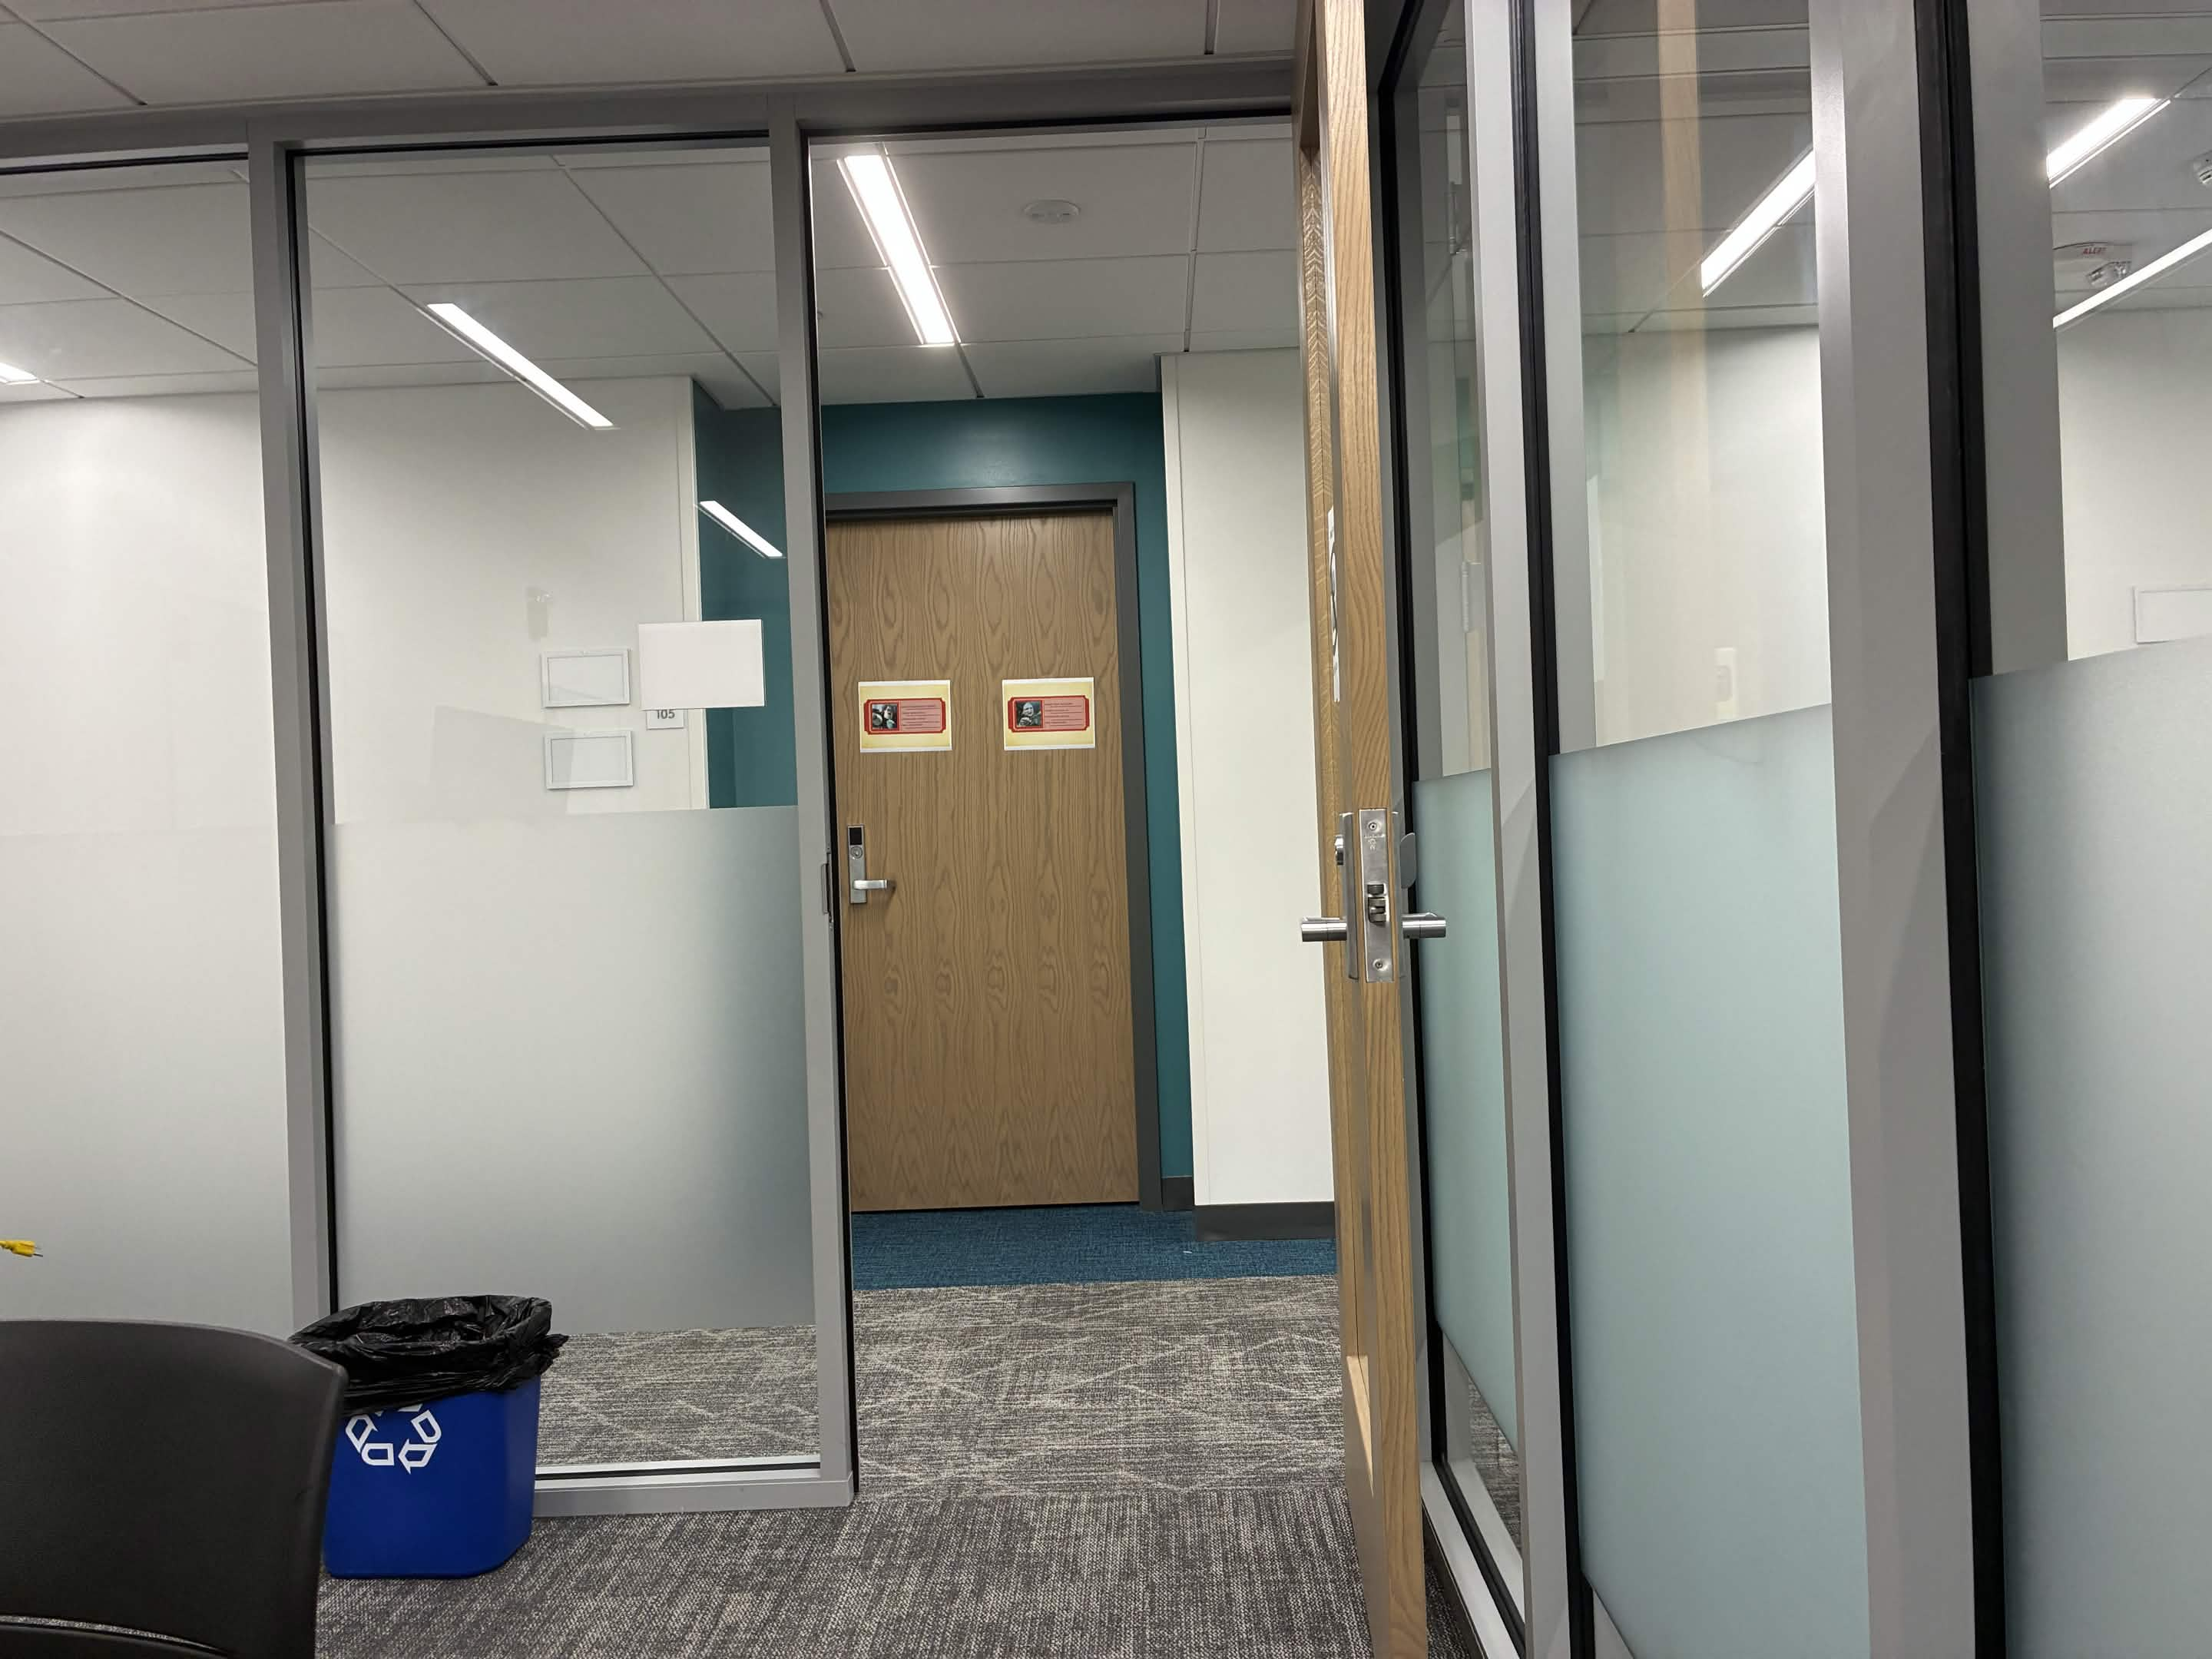
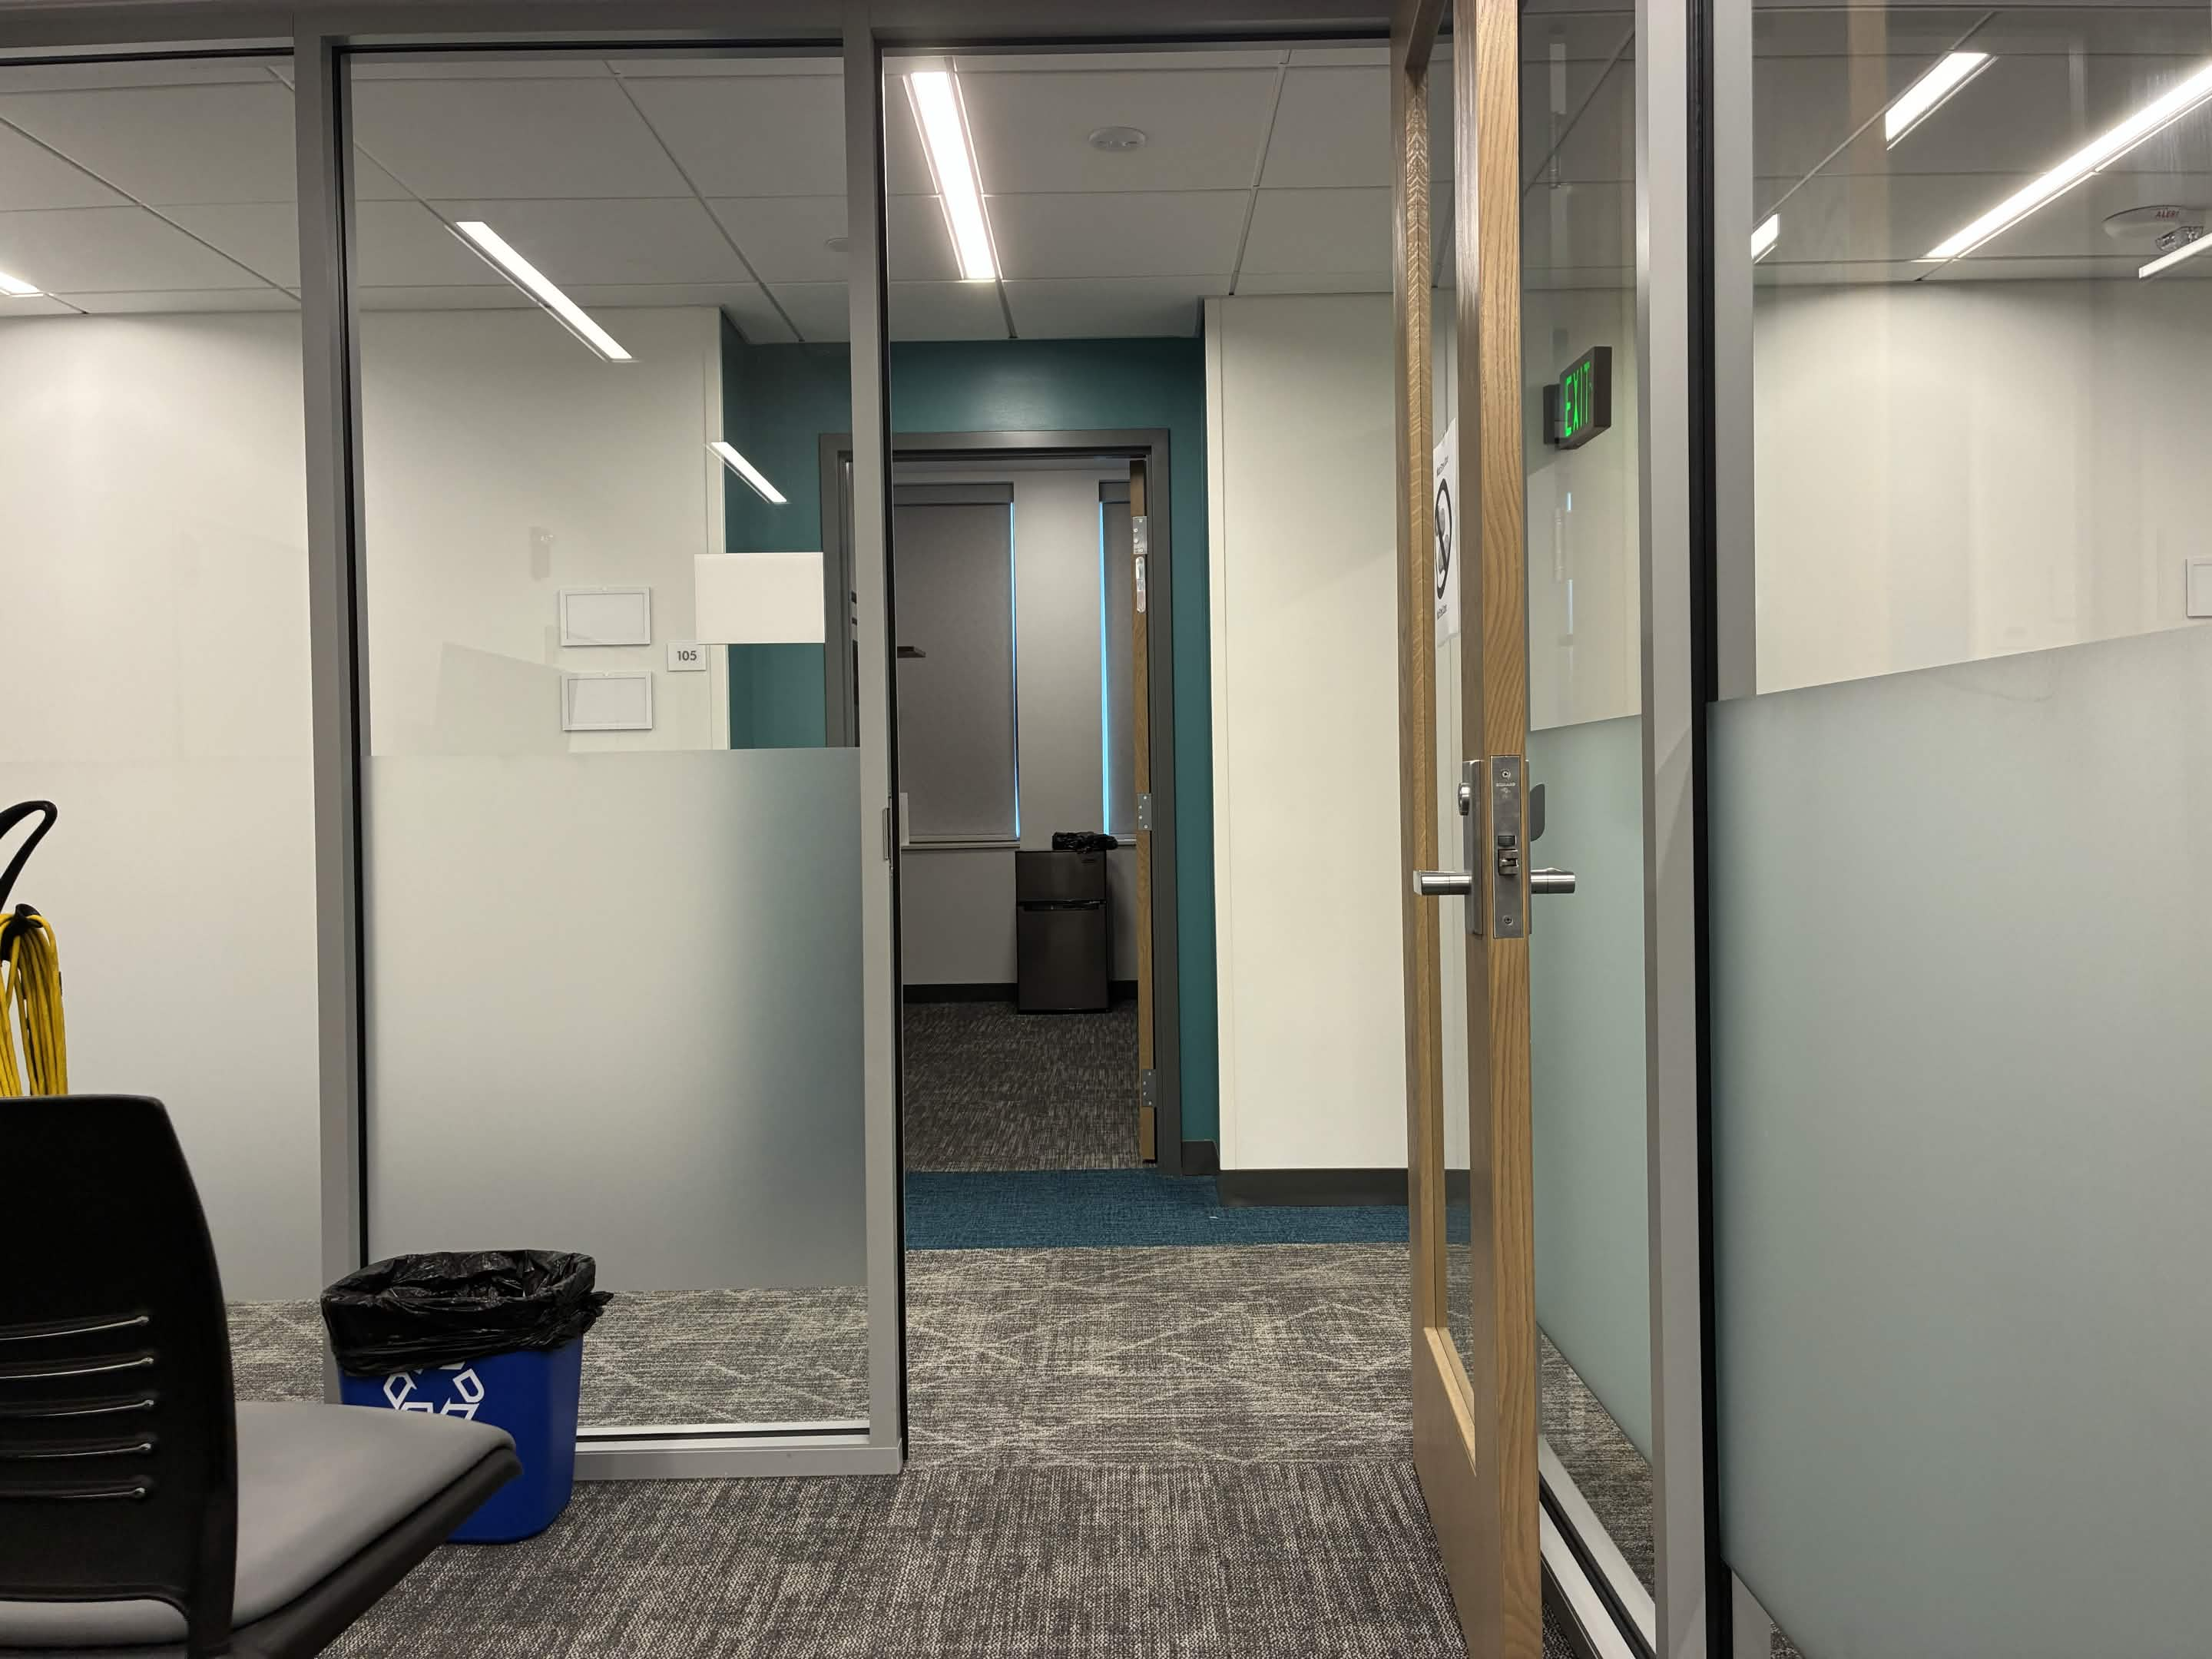
asdfasdf

diff --git a/office_module.py b/office_module.py
@@ -9,12 +9,12 @@ class Office:
     def __init__(self,screen: pygame.Surface,image,camera_off,is_here,door_side = None,door_button_position = (-100,-100)):
         self.screen = screen
         self.image = pygame.image.load(image)
-        self.x = -200
+        self.x = 0
         self.cam_off = camera_off
         self.door_closed = False
         self.here = is_here
         if door_side != None:
-            self.door = Door(f"images/office_{door_side}_closed.jpg",screen)
+            self.door = Door(f"images/office_{door_side}_closed.png",screen)
             self.door_button = button_module.Buttons(screen,door_button_position[0],door_button_position[1],"images/button_test.png")
         else:
             self.door = None
@@ -22,7 +22,7 @@ class Office:
 
     def draw(self):
         if self.cam_off:
-            self.image = pygame.transform.scale(self.image,(1200,600))
+            self.image = pygame.transform.scale(self.image,(800,600))
             self.screen.blit(self.image,(self.x,0))
             if self.door != None:
                 self.door_button.draw(40,40)
@@ -45,7 +45,7 @@ class Door:
     
     def draw(self):
         self.image = pygame.transform.scale(self.image,(WINDOW_WIDTH,WINDOW_HEIGHT))
-        self.screen.blit(self.image,(40,80))
+        self.screen.blit(self.image,(0,0))
 
     def is_closed(self):
         return self.closed

diff --git a/camera_system_module.py b/camera_system_module.py
@@ -33,7 +33,7 @@ class Camera_System:
         self.camera_6 = camera_module.Camera(self.screen, "images/cam6_main.jpg", 220,20)
 
         #Setting up Counselors
-        self.jj = counselor_module.Counselor(None,'jj',2,5,20,last_start_time)
+        self.jj = counselor_module.Counselor(None,'jj',0,5,5,last_start_time)
         self.carp = counselor_module.Counselor(None,'carp',0,5,5,last_start_time)
         self.aiman = counselor_module.Aimen(50)
         self.ethan = counselor_module.Counselor(None,'ethan',0,5,5,last_start_time)

diff --git a/project.py b/project.py
@@ -24,7 +24,7 @@ def main():
     #The Office
     office_main = office_module.Office(screen,"images/office_main.jpg",True,True,None)
     office_left = office_module.Office(screen,"images/office_left_open.jpg",True,False,"left",(30,300))
-    office_right = office_module.Office(screen,"images/office_right_open.jpg",True,False,"right",(400,300))
+    office_right = office_module.Office(screen,"images/office_right_open.jpg",True,False,"right",(500,300))
     left_rect = pygame.Rect(0,0,40,WINDOW_HEIGHT)
     right_rect = pygame.Rect(760,0,40,WINDOW_HEIGHT)
     left_true = False